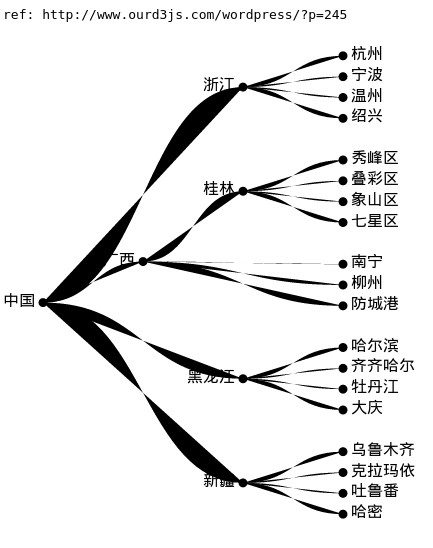
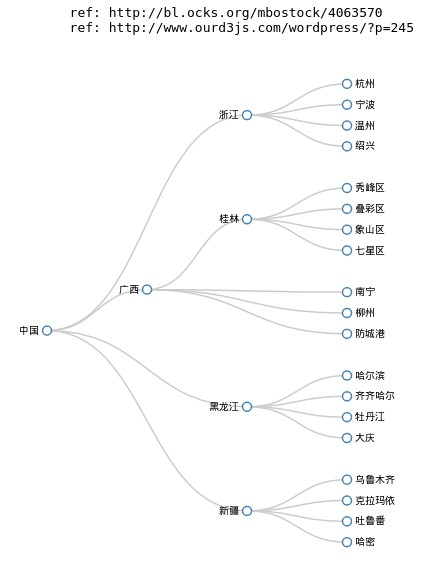
update sample

Changed region(s): [[0.0, 0.0, 0.9788, 0.9927], [0.0, 0.0, 0.0612, 0.031]]

diff --git a/sample01.html b/sample01.html
@@ -5,9 +5,29 @@
     <title></title>
     <script type="text/javascript" src="https://cdnjs.cloudflare.com/ajax/libs/d3/3.5.9/d3.js"></script>
 </head>
+<style>
+    /* 調整 d3 繪製出來的 SVG 樣式 */
+    .node circle {
+      fill: #fff;
+      stroke: steelblue;
+      stroke-width: 1.5px;
+    }
 
+    .node {
+      font: 10px sans-serif;
+    }
+
+    .link {
+      fill: none;
+      stroke: #ccc;
+      stroke-width: 1.5px;
+    }
+</style>
 <body>
-    <pre>ref: http://www.ourd3js.com/wordpress/?p=245</pre>
+    <pre>
+        ref: http://bl.ocks.org/mbostock/4063570
+        ref: http://www.ourd3js.com/wordpress/?p=245
+    </pre>
     <script>
         var width = 500,
             height = 500;
